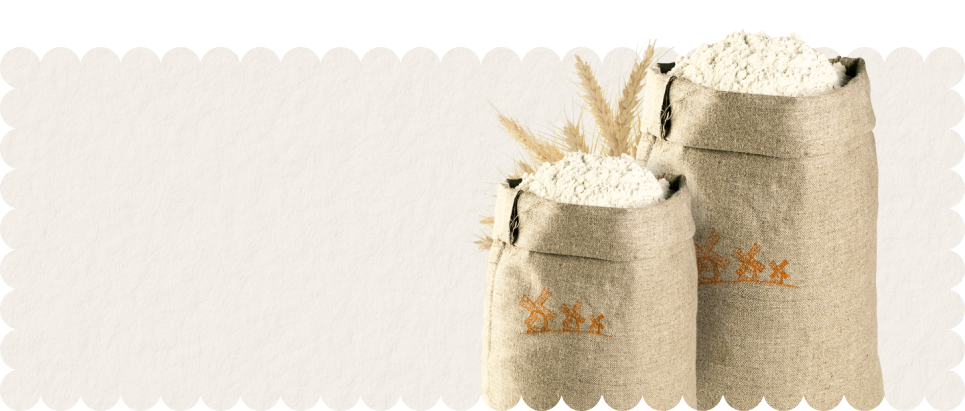
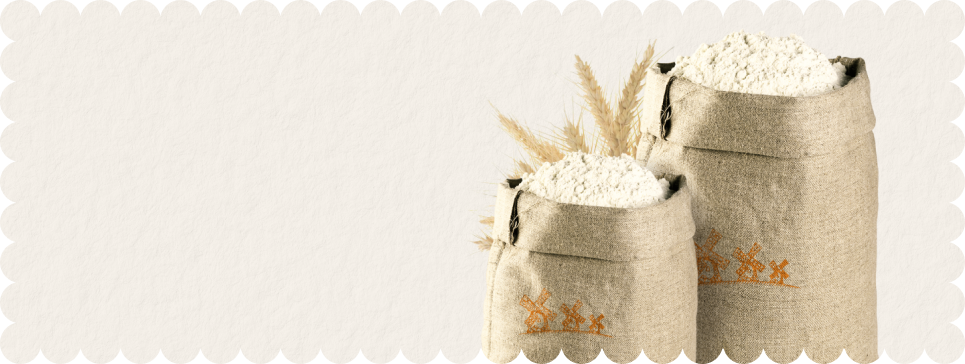
адаптив слайдера

diff --git a/app/index.html b/app/index.html
@@ -316,6 +316,11 @@
           <div class="slider-advantages-slide swiper-slide">
             <picture>
               <source
+                media="(min-width: 1920px)"
+                srcset="./img/bg-slide-1desktop.png"
+              />
+
+              <source
                 media="(min-width: 1024px)"
                 srcset="./img/bg-slide-1tablet.png"
               />
@@ -342,10 +347,21 @@
             </div>
           </div>
           <div class="slider-advantages-slide swiper-slide">
-            <img
-              src="./img/bg-slide-2.png"
-              class="slider-advantages-slide__image"
-            />
+            <picture>
+              <source
+                media="(min-width: 1920px)"
+                srcset="./img/bg-slide-2desktop.png"
+              />
+
+              <source
+                media="(min-width: 1024px)"
+                srcset="./img/bg-slide-2tablet.png"
+              />
+              <img
+                class="slider-advantages-slide__image"
+                src="./img/bg-slide-2.png"
+              />
+            </picture>
             <div class="slider-advantages__info slider-info">
               <p class="slider-info__title">
                 Большие объемы прoизводимой продукции
@@ -360,10 +376,21 @@
             </div>
           </div>
           <div class="slider-advantages-slide swiper-slide">
-            <img
-              src="./img/bg-slide-2.png"
-              class="slider-advantages-slide__image"
-            />
+            <picture>
+              <source
+                media="(min-width: 1920px)"
+                srcset="./img/bg-slide-2desktop.png"
+              />
+
+              <source
+                media="(min-width: 1024px)"
+                srcset="./img/bg-slide-2tablet.png"
+              />
+              <img
+                class="slider-advantages-slide__image"
+                src="./img/bg-slide-2.png"
+              />
+            </picture>
             <div class="slider-advantages__info slider-info">
               <p class="slider-info__title">
                 Большие объемы прoизводимой продукции

diff --git a/app/styles/sass/style.scss b/app/styles/sass/style.scss
@@ -680,17 +680,27 @@ input[type="radio"].visually-hidden {
 }
 // -------------------------------- slider-advantages ---------------------
 
-.slider-advantages {
+.slider-advantages.swiper {
   position: relative;
-  width: 100%;
+  width: 365px;
   height: 481px;
   margin-top: -25px;
   margin-bottom: 30px;
+  margin-left: 0;
+  margin-right: auto;
 }
 
 @media (min-width: $tablet-width) {
-  .slider-advantages {
+  .slider-advantages.swiper {
     height: 364px;
+    width: 965px;
+    margin-left: 0;
+  }
+}
+@media (min-width: $desktop-width) {
+  .slider-advantages.swiper {
+    width: 1172px;
+    height: 481px;
   }
 }
 
@@ -699,6 +709,13 @@ input[type="radio"].visually-hidden {
   height: 30px;
   margin-left: 34px;
   text-align: left;
+}
+
+@media (min-width: $tablet-width) {
+  .slider-pagination .swiper-pagination {
+    top: 57px;
+    margin-left: 97px;
+  }
 }
 
 .slider-pagination .swiper-pagination-bullet {
@@ -737,14 +754,37 @@ input[type="radio"].visually-hidden {
   z-index: 1;
 }
 
+@media (min-width: $tablet-width) {
+  .slider-advantages__info {
+    position: absolute;
+    width: 350px;
+    top: 111px;
+    left: 97px;
+  }
+}
+
 .slider-info__title {
   margin: 0 0 8px;
   font-size: 22px;
   font-weight: 800;
 }
+
+@media (min-width: $tablet-width) {
+  .slider-info__title {
+    font-size: 26px;
+    line-height: 110%;
+    font-weight: 700;
+  }
+}
 .slider-info__subtitle {
   font-size: 18px;
   margin: 0 0 10px;
+}
+
+@media (min-width: $tablet-width) {
+  .slider-info__subtitle {
+    font-weight: 700;
+  }
 }
 
 .slider-info__button {
@@ -752,6 +792,11 @@ input[type="radio"].visually-hidden {
   margin: 0 auto;
   margin-top: 24px;
   width: 225px;
+}
+@media (min-width: $tablet-width) {
+  .slider-info__button {
+    margin-left: 0;
+  }
 }
 
 // -------------------------------- about-us ---------------------

diff --git a/app/styles/css/style.css b/app/styles/css/style.css
@@ -634,16 +634,26 @@ input[type=radio].visually-hidden {
     font-weight: 800
   }
 }
-.slider-advantages {
+.slider-advantages.swiper {
   position: relative;
-  width: 100%;
+  width: 365px;
   height: 481px;
   margin-top: -25px;
-  margin-bottom: 30px
+  margin-bottom: 30px;
+  margin-left: 0;
+  margin-right: auto
 }
 @media (min-width:1024px) {
-  .slider-advantages {
-    height: 364px
+  .slider-advantages.swiper {
+    height: 364px;
+    width: 965px;
+    margin-left: 0
+  }
+}
+@media (min-width:1920px) {
+  .slider-advantages.swiper {
+    width: 1172px;
+    height: 481px
   }
 }
 .slider-pagination .swiper-pagination {
@@ -651,6 +661,12 @@ input[type=radio].visually-hidden {
   height: 30px;
   margin-left: 34px;
   text-align: left
+}
+@media (min-width:1024px) {
+  .slider-pagination .swiper-pagination {
+    top: 57px;
+    margin-left: 97px
+  }
 }
 .slider-pagination .swiper-pagination-bullet {
   width: 10px;
@@ -683,20 +699,45 @@ input[type=radio].visually-hidden {
   width: 297px;
   z-index: 1
 }
+@media (min-width:1024px) {
+  .slider-advantages__info {
+    position: absolute;
+    width: 350px;
+    top: 111px;
+    left: 97px
+  }
+}
 .slider-info__title {
   margin: 0 0 8px;
   font-size: 22px;
   font-weight: 800
 }
+@media (min-width:1024px) {
+  .slider-info__title {
+    font-size: 26px;
+    line-height: 110%;
+    font-weight: 700
+  }
+}
 .slider-info__subtitle {
   font-size: 18px;
   margin: 0 0 10px
+}
+@media (min-width:1024px) {
+  .slider-info__subtitle {
+    font-weight: 700
+  }
 }
 .slider-info__button {
   display: block;
   margin: 0 auto;
   margin-top: 24px;
   width: 225px
+}
+@media (min-width:1024px) {
+  .slider-info__button {
+    margin-left: 0
+  }
 }
 .about-us {
   margin-bottom: 70px
